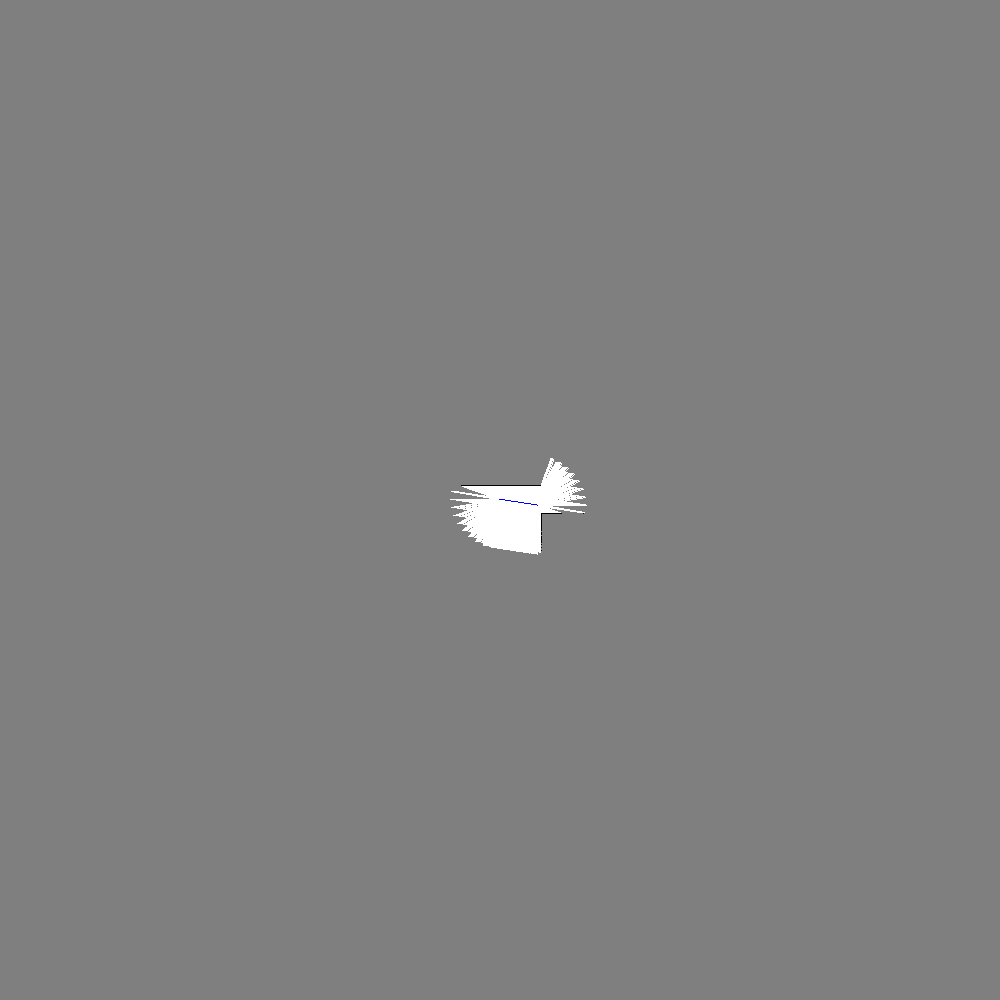
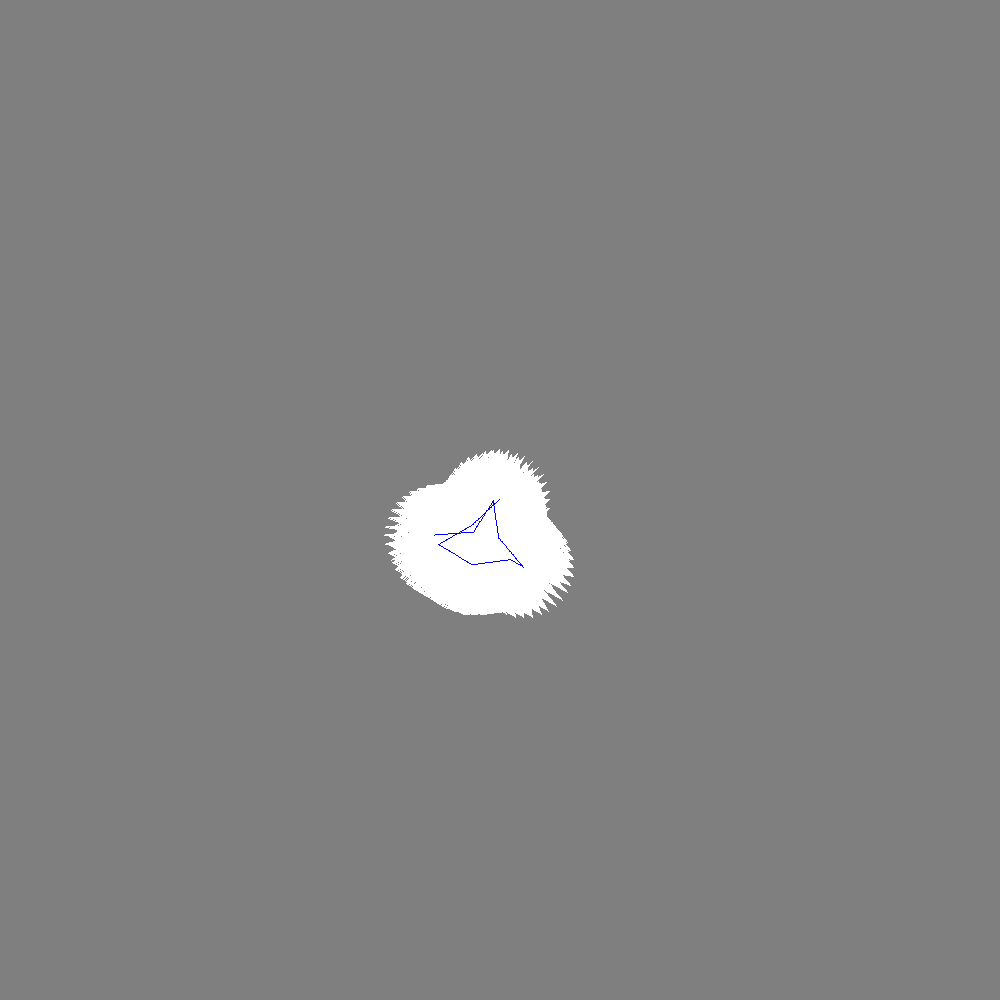
added bresenham stuff and merge

Changed region(s): [[0.372, 0.434, 0.589, 0.62]]

diff --git a/AREgym.py b/AREgym.py
@@ -55,15 +55,16 @@ class AREEnv(gym.Env):
         self.heuristic = np.zeros((self.num_laser_scan))
         self.heuristic_dist = heuristic_dist # self.step_distance * 2 magic number 
 
+        # initialize reward 
+        self.reward_prev = 0
+        self.reward_after = 0
+
         # episode termination criteria param
         self.termination_threshhold = termination_threshhold ## also magic number
 
         self.save_map = save_map
         if self.save_map:
             self.save_map_mode()
-
-        # keeping track of stuff for rendering 
-            self.scan = [] # store values scanned pixels for rendering
     
     def save_map_mode(self):
         '''
@@ -100,6 +101,9 @@ class AREEnv(gym.Env):
                 self.current_img[i,j,1] = 0 if self.world.world[i,j] == 0 else 1
                 self.current_img[i,j,2] = 0 if self.world.world[i,j] == 0 else 1
 
+        # keeping track of stuff for rendering 
+        self.scan = [] # store values scanned pixels for rendering
+
     def reset(self):
         self.world = self.world_generator.new_world()
         self.x = self.world_size
@@ -118,6 +122,8 @@ class AREEnv(gym.Env):
         heading = utils.action_to_rad(action)
         
         steps = self.world.get_path(heading, self.step_distance)
+        
+        self.reward_prev = self.world.explore_progress()
 
         for step in steps:
             self.move(step[0], step[1])
@@ -125,6 +131,8 @@ class AREEnv(gym.Env):
 
             if self.save_map:
                 self.map_img[self.x, self.y, 0] = 1
+        
+        self.reward_after = self.world.explore_progress()
 
         return self.observe(), self.get_reward(), self.finished()
     
@@ -147,37 +155,15 @@ class AREEnv(gym.Env):
             self.scan.clear()
 
         for i in range(self.num_laser_scan):
-            distance = 1
-            dx = 0
-            dy = 0
-            # ensure that current state is explored, only used when called during reset
-            self.global_map[self.x + dx, self.y + dy] = 1
-
             heading = self.laser_scan_heading[i]
-            while distance < self.laser_scan_max_dist:
-                # move in direction until hit an obstacle or reach maximum distance
-
-                dx = int(math.cos(heading) * distance)
-                dy = int(math.sin(heading) * distance)
-                if not utils.out_of_bounds(self.world.x + dx, \
-                                           self.world.y + dy, \
-                                            self.world.size):
-                    break
-
-                if self.world.world[self.world.x + dx, self.world.y + dy] == 0:
-                    self.global_map[self.x + dx, self.y + dy] = 0
-                    break
-                # update robot's map
+            def update_func(dx, dy):
                 self.global_map[self.x + dx, self.y + dy] = 1
-
-                # update world, used for calculation of termination
                 self.world.explore(dx, dy)
-
-                # for rendering
                 if self.save_map:
                     self.scan.append([dx,dy])
-                distance += 1
-            self.laserscan[i] = distance # in pixels
+            x1, y1 = utils.bresenham_line(lambda dx, dy: update_func(dx, dy), self.x, self.y, \
+                                          self.laser_scan_max_dist, heading, self.world.size, self.world.size)
+            self.laserscan[i] = utils.euc_dist(self.x,x1,self.y,y1) # in pixels
             
     def calc_heuristics(self):
         for i in range(self.num_laser_scan):
@@ -201,7 +187,25 @@ class AREEnv(gym.Env):
         ██║░╚███║╚█████╔╝   ╚█████╔╝███████╗╚██████╔╝███████╗
         ╚═╝░░╚══╝░╚════╝░   ░╚════╝░╚══════╝░╚═════╝░╚══════╝
         '''
-        return 1
+        # Calculate the delta of exploration progress before and after the action
+        delta_reward = self.reward_after - self.reward_prev
+
+        '''        
+        ██╗  ████████╗██╗░░██╗██╗███╗░░██╗██╗░░██╗  ██╗████████╗██╗░██████╗
+        ██║  ╚══██╔══╝██║░░██║██║████╗░██║██║░██╔╝  ██║╚══██╔══╝╚█║██╔════╝
+        ██║  ░░░██║░░░███████║██║██╔██╗██║█████═╝░  ██║░░░██║░░░░╚╝╚█████╗░
+        ██║  ░░░██║░░░██╔══██║██║██║╚████║██╔═██╗░  ██║░░░██║░░░░░░░╚═══██╗
+        ██║  ░░░██║░░░██║░░██║██║██║░╚███║██║░╚██╗  ██║░░░██║░░░░░░██████╔╝
+        ╚═╝  ░░░╚═╝░░░╚═╝░░╚═╝╚═╝╚═╝░░╚══╝╚═╝░░╚═╝  ╚═╝░░░╚═╝░░░░░░╚═════╝░
+
+        ██████╗░░█████╗░███╗░░██╗███████╗
+        ██╔══██╗██╔══██╗████╗░██║██╔════╝
+        ██║░░██║██║░░██║██╔██╗██║█████╗░░
+        ██║░░██║██║░░██║██║╚████║██╔══╝░░
+        ██████╔╝╚█████╔╝██║░╚███║███████╗
+        ╚═════╝░░╚════╝░╚═╝░░╚══╝╚══════╝
+        '''
+        return delta_reward
 
     def finished(self):
         return self.world.explore_progress() >= self.termination_threshhold

diff --git a/World.py b/World.py
@@ -30,7 +30,7 @@ class World:
             dx = int(math.cos(heading) * distance)
             dy = int(math.sin(heading) * distance)
             # check out of bounds
-            if not utils.out_of_bounds(self.x + dx, self.y + dy, self.size):
+            if utils.out_of_bounds(self.x + dx, self.y + dy, self.size, self.size):
                 break
             if self.world[self.x + dx, self.y + dy] == 0:
                 break        
@@ -81,9 +81,9 @@ class WorldGenerator:
     def can_gen_room(self, world, room_size, room_x, room_y):
         return not world[room_x:room_x+room_size,room_y:room_y+room_size].any() and (\
             (room_y>0 and world[room_x:room_x+room_size,room_y-1].any()) or \
-            (room_y+room_size<self.size_y-1 and world[room_x:room_x+room_size,room_y+room_size+1].any()) or \
+            (room_y+room_size<self.size_y-1 and world[room_x:room_x+room_size,room_y+room_size].any()) or \
             (room_x>0 and world[room_x-1,room_y:room_y+room_size].any()) or \
-            (room_x+room_size<self.size_x-1 and world[room_x+room_size+1,room_y:room_y+room_size].any()))
+            (room_x+room_size<self.size_x-1 and world[room_x+room_size,room_y:room_y+room_size].any()))
 
     def flood_room(self, world, room_size, room_x, room_y):
         world[room_x:room_x+room_size,room_y:room_y+room_size] = 1

diff --git a/utils.py b/utils.py
@@ -1,8 +1,39 @@
 import math
 
-def out_of_bounds(x, y, size):
-    return x < size and x >= 0 and y < size and y >= 0
+def out_of_bounds(x, y, xl, yl):
+    return x < 0 and x >= xl and y < 0 and y >= yl
 
 # map action from [0,1] to [-pi,pi]
 def action_to_rad(action):
     return (action - 0.5) * math.pi * 2
+
+def bresenham_line(update_func, x0, y0, d, heading, xl, yl):
+    xs, ys = x0, y0
+    x1 = int(x0 + d*math.cos(heading))
+    y1 = int(y0 + d*math.sin(heading))
+    dx = abs(x1 - x0)
+    sx = 1 if x0 < x1 else -1
+    dy = -abs(y1 - y0)
+    sy = 1 if y0 < y1 else -1
+    error = dx + dy
+    while True:
+        if out_of_bounds(x0, y0, xl, yl):
+            break
+        update_func(x0 - xs, y0 - ys)
+        if x0 == x1 and y0 == y1:
+            break
+        e2 = error*2
+        if e2 >= dy:
+            if x0 == x1:
+                break
+            error += dy
+            x0 += sx
+        if e2 <= dx:
+            if y0 == y1:
+                break
+            error += dx
+            y0 += sy
+    return x0,y0
+
+def euc_dist(x0, x1, y0, y1):
+    return math.sqrt((x0-x1)**2+(y0-y1)**2)
